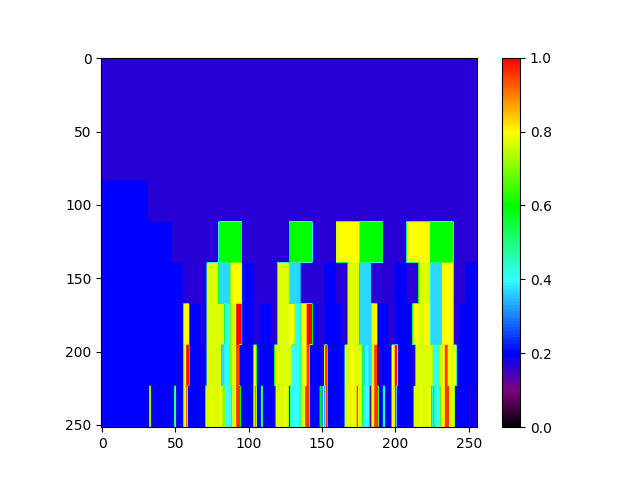
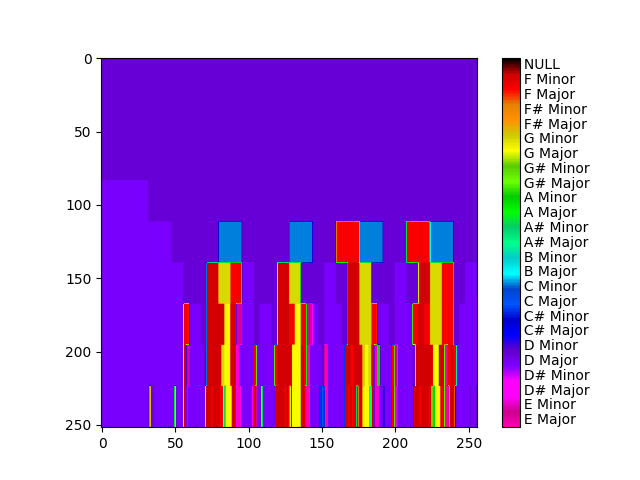
update

diff --git a/sound/mir/keyscape/plot_keyscape.py b/sound/mir/keyscape/plot_keyscape.py
@@ -1,6 +1,7 @@
 import numpy as np
 import librosa
-import matplotlib
+from colour import Color
+from matplotlib.colors import LinearSegmentedColormap
 from matplotlib import pyplot as plt
 import music21
 import pretty_midi
@@ -19,70 +20,113 @@ MINOR_SCALE_PROFILE = [0.16, 0.03, 0.09, 0.13, 0.03, 0.10, 0.06, 0.14, 0.11, 0.0
 
 
 # Customized color map
-cdict = {'red': ((0.0, 0.0, 0.0),
-                 (0.1, 0.5, 0.5),
-                 (0.2, 0.0, 0.0),
-                 (0.4, 0.2, 0.2),
-                 (0.6, 0.0, 0.0),
-                 (0.8, 1.0, 1.0),
-                 (1.0, 1.0, 1.0)),
-        'green':((0.0, 0.0, 0.0),
-                 (0.1, 0.0, 0.0),
-                 (0.2, 0.0, 0.0),
-                 (0.4, 1.0, 1.0),
-                 (0.6, 1.0, 1.0),
-                 (0.8, 1.0, 1.0),
-                 (1.0, 0.0, 0.0)),
-        'blue': ((0.0, 0.0, 0.0),
-                 (0.1, 0.5, 0.5),
-                 (0.2, 1.0, 1.0),
-                 (0.4, 1.0, 1.0),
-                 (0.6, 0.0, 0.0),
-                 (0.8, 0.0, 0.0),
-                 (1.0, 0.0, 0.0))}
+light_rose = '#FF00B2'
+dark_rose = '#CC008F'
+light_rose_code = 0.0
+dark_rose_code = 0.05
 
-my_cmap = matplotlib.colors.LinearSegmentedColormap('my_colormap', cdict, 256)
+light_magenta = '#FF00FF'
+dark_magenta = '#FF00FF'
+light_magenta_code = 0.11
+dark_magenta_code = 0.14
 
-light_purple = 0.1
-dark_purple = 0.07
+light_violet = '#7B00FF'
+dark_violet = '#6300CC'
+light_violet_code = 0.17
+dark_violet_code = 0.2
 
-light_indigo = 0.2
-dark_indigo = 0.17
+light_blue = '#0000FF'
+dark_blue = '#0000CC'
+light_blue_code = 0.32
+dark_blue_code = 0.3
 
-light_blue = 0.4
-dark_blue = 0.37
+light_azure = '#0055FF'
+dark_azure = '#0044CC'
+light_azure_code = 0.39
+dark_azure_code = 0.38
 
-light_green = 0.6
-dark_green = 0.7
+light_cyan = '#00FFFF'
+dark_cyan = '#00CCCC'
+light_cyan_code = 0.42
+dark_cyan_code = 0.45
 
-light_yellow = 0.8
-dark_yellow = 0.77
+light_spring = '#00FF88'
+dark_spring = '#00CC6D'
+light_spring_code = 0.5
+dark_spring_code = 0.53
 
-light_orange = 0.85
-dark_orange = 0.88
+light_green = '#00FF00'
+dark_green = '#00CC00'
+light_green_code = 0.6
+dark_green_code = 0.62
 
-light_red = 0.96
-dark_red = 1
+light_chartreuse = '#6EFF00'
+dark_chartreuse = '#58CC00'
+light_chartreuse_code = 0.70
+dark_chartreuse_code = 0.72
 
-no_key = 0
+light_yellow = '#FFFF00'
+dark_yellow = '#CCCC00'
+light_yellow_code = 0.75
+dark_yellow_code = 0.78
+
+light_orange = '#FF9100'
+dark_orange = '#E68200'
+light_orange_code = 0.83
+dark_orange_code = 0.87
+
+light_red = '#FF0000'
+dark_red = '#CC0000'
+light_red_code = 0.92
+dark_red_code = 0.95
+
+black = '#000000'
+black_code = 1.0
+
+ramp_colors = [light_rose, dark_rose, light_magenta, dark_magenta, light_violet, dark_violet, light_blue, dark_blue,
+               light_azure, dark_azure, light_cyan, dark_cyan, light_spring, dark_spring, light_green, dark_green,
+               light_chartreuse, dark_chartreuse, light_yellow, dark_yellow, light_orange, dark_orange, light_red,
+               dark_red, black]
+
+my_cmap = LinearSegmentedColormap.from_list( 'my_cmap', [Color(color).rgb for color in ramp_colors])
 
 # circle of fifths
 KEY_COLOR_DICT = {
-    'A MAJOR': light_purple,
-    'A MINOR': dark_purple,
-    'B MAJOR': light_orange,
-    'B MINOR': dark_orange,
-    'C MAJOR': light_green,
-    'C MINOR': dark_green,
-    'D MAJOR': light_indigo,
-    'D MINOR': dark_indigo,
-    'E MAJOR': light_red,
-    'E MINOR': dark_red,
-    'F MAJOR': light_yellow,
-    'F MINOR': dark_yellow,
-    'G MAJOR': light_blue,
-    'G MINOR': dark_blue,
-    'NULL': no_key
+    'A MAJOR': light_green_code,
+    'A MINOR': dark_green_code,
+    'A# MAJOR': light_spring_code,
+    'A# MINOR': dark_spring_code,
+    'B- MAJOR': light_spring_code,
+    'B- MINOR': dark_spring_code,
+    'B MAJOR': light_cyan_code,
+    'B MINOR': dark_cyan_code,
+    'C MAJOR': light_azure_code,
+    'C MINOR': dark_azure_code,
+    'C# MAJOR': light_blue_code,
+    'C# MINOR': dark_blue_code,
+    'D- MAJOR': light_blue_code,
+    'D- MINOR': dark_blue_code,
+    'D MAJOR': light_violet_code,
+    'D MINOR': dark_violet_code,
+    'D# MAJOR': light_magenta_code,
+    'D# MINOR': dark_magenta_code,
+    'E- MAJOR': light_magenta_code,
+    'E- MINOR': dark_magenta_code,
+    'E MAJOR': light_rose_code,
+    'E MINOR': dark_rose_code,
+    'F MAJOR': light_red_code,
+    'F MINOR': dark_red_code,
+    'F# MAJOR': light_orange_code,
+    'F# MINOR': dark_orange_code,
+    'G- MAJOR': light_orange_code,
+    'G- MINOR': dark_orange_code,
+    'G MAJOR': light_yellow_code,
+    'G MINOR': dark_yellow_code,
+    'G# MAJOR': light_chartreuse_code,
+    'G# MINOR': dark_chartreuse_code,
+    'A- MAJOR': light_chartreuse_code,
+    'A- MINOR': dark_chartreuse_code,
+    'NULL': black_code
 }
 
 
@@ -367,7 +411,7 @@ def plot_keyscape_from_audio(infile):
             key = krumhansl_schmuckler.get_key(dist)
             print("Estimated key:", key)
 
-            key_str = str(key).upper().replace('#', '').replace('-', '')
+            key_str = str(key).upper()
             print("Adjusted key:", key_str)
 
             key_cm_value = KEY_COLOR_DICT[key_str]
@@ -395,7 +439,16 @@ def plot_keyscape_from_audio(infile):
     fig = plt.figure()
     ax = fig.add_subplot(111)
     im = ax.imshow(X_SPANNED, cmap=my_cmap, vmin=0, vmax=1)
-    plt.colorbar(im)
+
+    cbar = plt.colorbar(im)
+    cbar.ax.get_yaxis().set_ticks([])
+    for j, lab in enumerate(['     E Major', '     E Minor', '     D# Major', '     D# Minor', '     D Major',
+                             '     D Minor', '     C# Major', '     C# Minor', '     C Major', '     C Minor',
+                             '     B Major', '     B Minor', '     A# Major', '     A# Minor', '     A Major',
+                             '     A Minor', '     G# Major', '     G# Minor', '     G Major', '     G Minor',
+                             '     F# Major', '     F# Minor', '     F Major', '     F Minor', '     NULL']):
+        cbar.ax.text(0., j / 25, lab, ha='left', va='bottom')
+
     plt.show()
     fig.savefig('./pix/Chambermaid_Swing_Audio.png', dpi=fig.dpi)
 
@@ -594,14 +647,14 @@ def plot_keyscape_from_midi(infile, source_folder):
                 key = str(score.analyze('key'))
                 print("Estimated key:", key)
 
-                key_str = str(key).upper().replace('#', '').replace('-', '')
+                key_str = str(key).upper()
                 print("Adjusted key:", key_str)
 
             except:
                 key_str = 'NULL'
 
             key_cm_value = KEY_COLOR_DICT[key_str]
-            # print("Key color value:", key_cm_value)
+            print("Key color value:", key_cm_value)
 
             start_index = segment_index * step
             end_index = start_index + step
@@ -625,7 +678,16 @@ def plot_keyscape_from_midi(infile, source_folder):
     fig = plt.figure()
     ax = fig.add_subplot(111)
     im = ax.imshow(X_SPANNED, cmap=my_cmap, vmin=0, vmax=1)
-    plt.colorbar(im)
+
+    cbar = plt.colorbar(im)
+    cbar.ax.get_yaxis().set_ticks([])
+    for j, lab in enumerate(['     E Major', '     E Minor', '     D# Major', '     D# Minor', '     D Major',
+                             '     D Minor', '     C# Major', '     C# Minor', '     C Major', '     C Minor',
+                             '     B Major', '     B Minor', '     A# Major', '     A# Minor', '     A Major',
+                             '     A Minor', '     G# Major', '     G# Minor', '     G Major', '     G Minor',
+                             '     F# Major', '     F# Minor', '     F Major', '     F Minor', '     NULL']):
+        cbar.ax.text(0., j/25, lab, ha='left', va='bottom')
+
     plt.show()
     fig.savefig('./pix/Chambermaid_Swing.png', dpi=fig.dpi)
 

diff --git a/sound/mir/keyscape/test_full_rainbow.py b/sound/mir/keyscape/test_full_rainbow.py
@@ -1,0 +1,109 @@
+from colour import Color
+from matplotlib.colors import LinearSegmentedColormap
+from matplotlib import pyplot as plt
+import numpy as np
+
+
+light_rose = '#FF00B2'
+dark_rose = '#CC008F'
+light_rose_code = 0.0
+dark_rose_code = 0.05
+
+light_magenta = '#FF00FF'
+dark_magenta = '#FF00FF'
+light_magenta_code = 0.11
+dark_magenta_code = 0.14
+
+light_violet = '#7B00FF'
+dark_violet = '#6300CC'
+light_violet_code = 0.17
+dark_violet_code = 0.2
+
+light_blue = '#0000FF'
+dark_blue = '#0000CC'
+light_blue_code = 0.32
+dark_blue_code = 0.3
+
+light_azure = '#0055FF'
+dark_azure = '#0044CC'
+light_azure_code = 0.39
+dark_azure_code = 0.38
+
+light_cyan = '#00FFFF'
+dark_cyan = '#00CCCC'
+light_cyan_code = 0.42
+dark_cyan_code = 0.45
+
+light_spring = '#00FF88'
+dark_spring = '#00CC6D'
+light_spring_code = 0.5
+dark_spring_code = 0.53
+
+light_green = '#00FF00'
+dark_green = '#00CC00'
+light_green_code = 0.6
+dark_green_code = 0.62
+
+light_chartreuse = '#6EFF00'
+dark_chartreuse = '#58CC00'
+light_chartreuse_code = 0.70
+dark_chartreuse_code = 0.72
+
+light_yellow = '#FFFF00'
+dark_yellow = '#CCCC00'
+light_yellow_code = 0.75
+dark_yellow_code = 0.78
+
+light_orange = '#FF9100'
+dark_orange = '#E68200'
+light_orange_code = 0.83
+dark_orange_code = 0.87
+
+light_red = '#FF0000'
+dark_red = '#CC0000'
+light_red_code = 0.92
+dark_red_code = 0.95
+
+black = '#000000'
+black_code = 1.0
+
+ramp_colors = [light_rose, dark_rose, light_magenta, dark_magenta, light_violet, dark_violet, light_blue, dark_blue,
+               light_azure, dark_azure, light_cyan, dark_cyan, light_spring, dark_spring, light_green, dark_green,
+               light_chartreuse, dark_chartreuse, light_yellow, dark_yellow, light_orange, dark_orange, light_red,
+               dark_red, black]
+
+my_cmap = LinearSegmentedColormap.from_list( 'my_cmap', [Color(color).rgb for color in ramp_colors])
+
+# input_array = np.random.rand(10,10)
+
+input_array = np.array([np.repeat(light_rose_code, 25),
+                        np.repeat(dark_rose_code, 25),
+                        np.repeat(light_magenta_code, 25),
+                        np.repeat(dark_magenta_code, 25),
+                        np.repeat(light_violet_code, 25),
+                        np.repeat(dark_violet_code, 25),
+                        np.repeat(light_blue_code, 25),
+                        np.repeat(dark_blue_code, 25),
+                        np.repeat(light_azure_code, 25),
+                        np.repeat(dark_azure_code, 25),
+                        np.repeat(light_cyan_code, 25),
+                        np.repeat(dark_cyan_code, 25),
+                        np.repeat(light_spring_code, 25),
+                        np.repeat(dark_spring_code, 25),
+                        np.repeat(light_green_code, 25),
+                        np.repeat(dark_green_code, 25),
+                        np.repeat(light_chartreuse_code, 25),
+                        np.repeat(dark_chartreuse_code, 25),
+                        np.repeat(light_yellow_code, 25),
+                        np.repeat(dark_yellow_code, 25),
+                        np.repeat(light_orange_code, 25),
+                        np.repeat(dark_orange_code, 25),
+                        np.repeat(light_red_code, 25),
+                        np.repeat(dark_red_code, 25),
+                        np.repeat(black_code, 25)])
+
+fig = plt.figure()
+ax = fig.add_subplot(111)
+im = ax.imshow(input_array, cmap=my_cmap, vmin=0, vmax=1)
+plt.colorbar(im)
+plt.show()

diff --git a/sound/mir/keyscape/README.md b/sound/mir/keyscape/README.md
@@ -62,3 +62,4 @@ xcrun make
 * https://github.com/zwaltman/keyedin
 * https://github.com/stevetjoa/musicsearch
 * https://en.wikipedia.org/wiki/Circle_of_fifths
+* https://www.rapidtables.com/web/color/color-wheel.html
